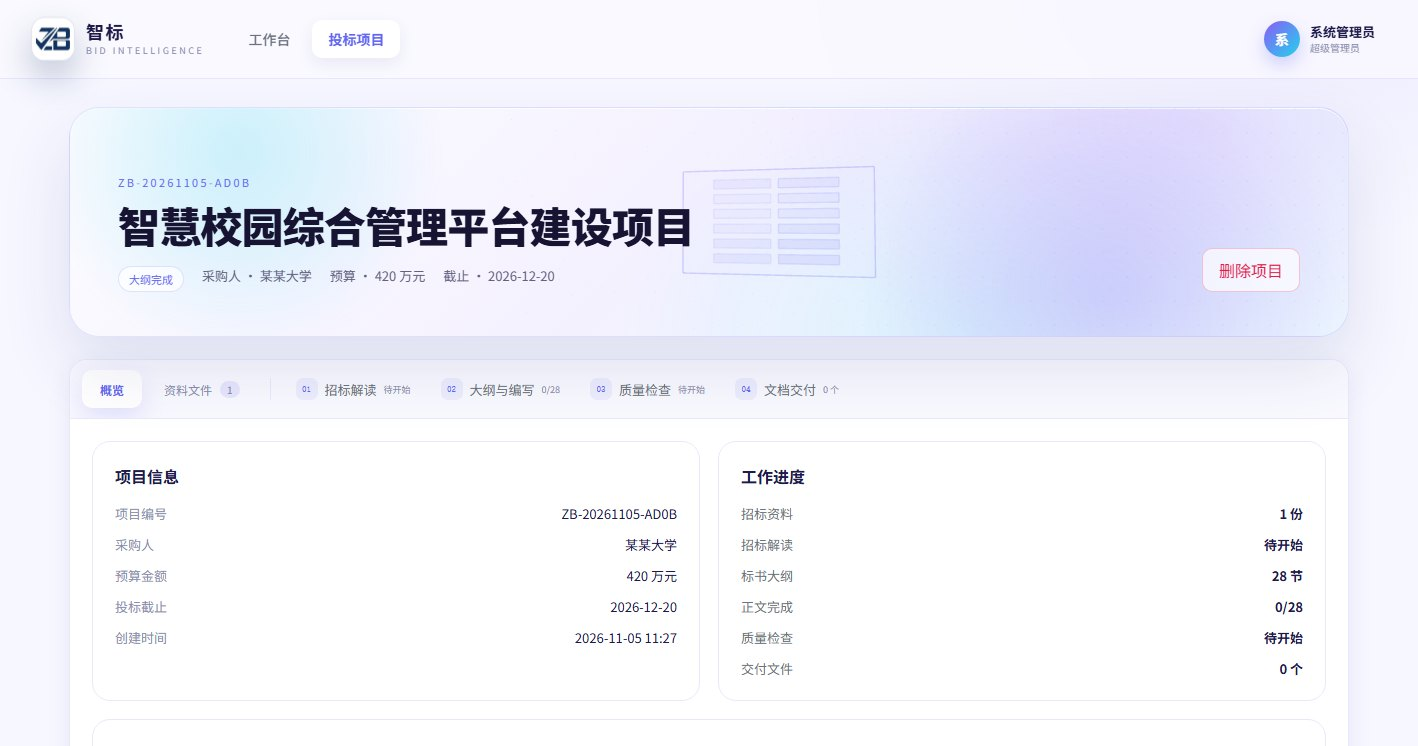
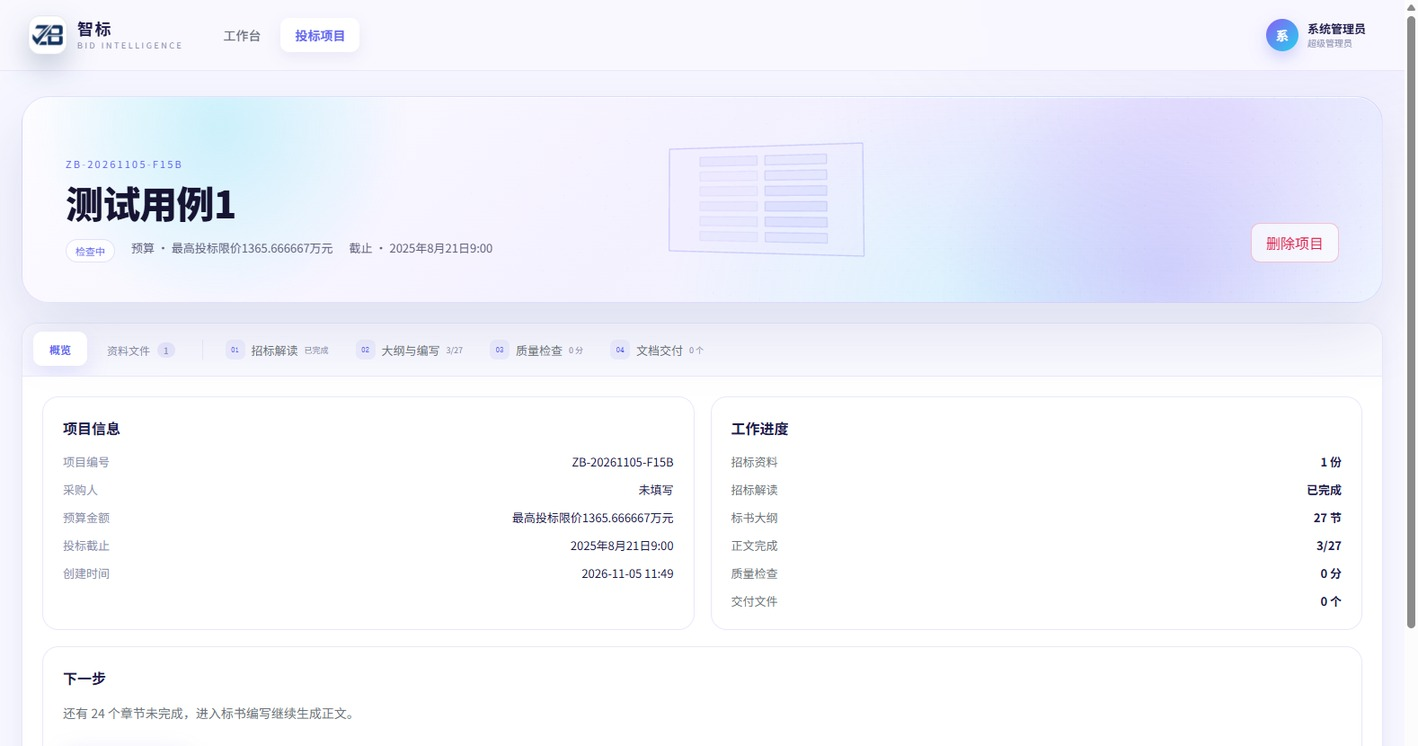
feat(web): 项目详情页加宽并让三维场景随页签变化
- 项目详情六个页签使用 1600px 上限的工作区，减少大屏两侧空白
- 解读页增加评分环、刻度与环绕节点；检查页增加菱形标记与扫描线
- 编写页增加漂浮章节卡片，交付页印章改为抬起/落下；各页签使用不同纸张视角
- 更新项目概览与编写页截图

diff --git a/packages/web/renderer-v2/src/components/AmbientScene.tsx b/packages/web/renderer-v2/src/components/AmbientScene.tsx
@@ -25,6 +25,16 @@ const STEP_ACCENT: Record<string, number> = {
   delivery: PALETTE.indigo,
 };
 
+// 每个步骤给纸张不同的视角，避免六个页签看到同一块平面。
+const STEP_TILT: Record<string, { x: number; y: number }> = {
+  overview: { x: -0.04, y: -0.16 },
+  files: { x: -0.1, y: 0.06 },
+  analysis: { x: -0.16, y: 0.13 },
+  writing: { x: -0.02, y: -0.05 },
+  review: { x: -0.12, y: 0.03 },
+  delivery: { x: 0.02, y: 0.16 },
+};
+
 type Stage = {
   scene: THREE.Scene;
   camera: THREE.PerspectiveCamera;
@@ -634,6 +644,93 @@ export function WorkspaceScene({ step, progress = 0 }: { step: string; progress?
       blocks.push({ mesh, edge, index });
     }
 
+    // 解读：评分环 + 刻度 + 环绕节点
+    const scoreRing = new THREE.Group();
+    scoreRing.position.z = 0.14;
+    const scoreArcMaterial = glowMaterial(PALETTE.cyan, 0.5);
+    const scoreArc = new THREE.Mesh(
+      new THREE.TorusGeometry(2.25, 0.018, 8, 140, Math.PI * 1.45),
+      scoreArcMaterial,
+    );
+    scoreRing.add(scoreArc);
+    const scoreTicks: THREE.Mesh[] = [];
+    const scoreTickGeo = new THREE.PlaneGeometry(0.028, 0.16);
+    for (let index = 0; index < 24; index += 1) {
+      const angle = (index / 24) * Math.PI * 2;
+      const tick = new THREE.Mesh(scoreTickGeo, fillMaterial(PALETTE.cyan, 0.22));
+      tick.position.set(Math.cos(angle) * 2.36, Math.sin(angle) * 2.36, 0);
+      tick.rotation.z = angle;
+      scoreRing.add(tick);
+      scoreTicks.push(tick);
+    }
+    const scoreNodes: THREE.Mesh[] = [];
+    for (let index = 0; index < 5; index += 1) {
+      const node = new THREE.Mesh(
+        new THREE.SphereGeometry(0.045, 10, 10),
+        glowMaterial(index % 2 ? PALETTE.violet : PALETTE.cyan, 0.7),
+      );
+      scoreRing.add(node);
+      scoreNodes.push(node);
+    }
+    scoreRing.visible = false;
+    group.add(scoreRing);
+
+    // 检查：随扫描线逐点亮起的菱形标记
+    const reviewGroup = new THREE.Group();
+    const reviewMarks: { mesh: THREE.Mesh; base: number }[] = [];
+    const reviewPositions = [
+      [-1.55, 0.86], [0.2, 0.62], [1.55, 0.9], [0.95, -0.72], [-0.7, -0.9],
+    ];
+    const reviewMarkGeo = new THREE.PlaneGeometry(0.16, 0.16);
+    reviewPositions.forEach(([x, y], index) => {
+      const mark = new THREE.Mesh(
+        reviewMarkGeo,
+        fillMaterial(index === 3 ? 0xe11d48 : 0xf59e0b, 0.42),
+      );
+      mark.position.set(x, y, 0.1);
+      mark.rotation.z = Math.PI / 4;
+      reviewGroup.add(mark);
+      reviewMarks.push({ mesh: mark, base: 0.2 + index * 0.04 });
+    });
+    reviewGroup.visible = false;
+    group.add(reviewGroup);
+
+    // 编写：纸张外侧漂浮的章节卡片
+    const writingGroup = new THREE.Group();
+    const writingCards: { group: THREE.Group; baseY: number; baseRot: number; index: number }[] = [];
+    const cardMaterials: { material: { opacity: number }; base: number }[] = [];
+    const cardGeo = new THREE.PlaneGeometry(0.72, 0.46);
+    const cardEdges = new THREE.EdgesGeometry(cardGeo);
+    const cardSpecs = [
+      { x: -3.35, y: 0.9, rot: -0.32 },
+      { x: 3.4, y: 0.6, rot: 0.3 },
+      { x: 3.05, y: -1.1, rot: 0.2 },
+    ];
+    cardSpecs.forEach((spec, index) => {
+      const card = new THREE.Group();
+      card.position.set(spec.x, spec.y, 0.25);
+      card.rotation.y = spec.rot;
+      const panel = new THREE.Mesh(cardGeo, fillMaterial(PALETTE.paper, 0.4));
+      card.add(panel);
+      cardMaterials.push({ material: panel.material as { opacity: number }, base: 0.4 });
+      const edges = new THREE.LineSegments(cardEdges, lineMaterial(PALETTE.violet, 0.45));
+      card.add(edges);
+      cardMaterials.push({ material: edges.material as { opacity: number }, base: 0.45 });
+      for (let line = 0; line < 3; line += 1) {
+        const rule = new THREE.Mesh(
+          new THREE.PlaneGeometry(0.5 - line * 0.1, 0.025),
+          fillMaterial(PALETTE.violet, 0.26),
+        );
+        rule.position.set(0, 0.1 - line * 0.1, 0.004);
+        card.add(rule);
+        cardMaterials.push({ material: rule.material as { opacity: number }, base: 0.26 });
+      }
+      writingGroup.add(card);
+      writingCards.push({ group: card, baseY: spec.y, baseRot: spec.rot, index });
+    });
+    writingGroup.visible = false;
+    group.add(writingGroup);
+
     // 步骤专属动效（一直在场，按当前步骤淡入淡出，不再整场景重建）
     const radar = new THREE.Group();
     radar.position.set(0, 0, 0.12);
@@ -748,6 +845,8 @@ export function WorkspaceScene({ step, progress = 0 }: { step: string; progress?
     let scanMix = 0;
     let sealMix = 0;
     let progressMix = 0;
+    let tiltX = STEP_TILT[stepRef.current]?.x ?? -0.04;
+    let tiltY = STEP_TILT[stepRef.current]?.y ?? -0.16;
 
     const paint = (time: number, instant: boolean) => {
       const currentStep = stepRef.current;
@@ -775,8 +874,11 @@ export function WorkspaceScene({ step, progress = 0 }: { step: string; progress?
       camera.lookAt(0, 0, 0);
 
       group.position.set(baseX + pointer.x * 0.25, -drift * 0.35, 0);
-      group.rotation.y = -0.16 + Math.sin(time * 0.25) * 0.06 + pointer.x * 0.12;
-      group.rotation.x = -0.04 - pointer.y * 0.06 - drift * 0.05;
+      const tilt = STEP_TILT[currentStep] || STEP_TILT.overview;
+      tiltX = instant ? tilt.x : tiltX + (tilt.x - tiltX) * 0.05;
+      tiltY = instant ? tilt.y : tiltY + (tilt.y - tiltY) * 0.05;
+      group.rotation.y = tiltY + Math.sin(time * 0.25) * 0.04 + pointer.x * 0.1;
+      group.rotation.x = tiltX - pointer.y * 0.05 - drift * 0.05;
       group.scale.setScalar(baseScale * (0.94 + reveal * 0.06) * (1 + stepPulse * 0.035));
 
       const sheetMaterial = sheetEdge.material as THREE.LineBasicMaterial;
@@ -823,12 +925,48 @@ export function WorkspaceScene({ step, progress = 0 }: { step: string; progress?
       scanMaterial.opacity = 0.36 * scanMix;
       if (scanMix > 0.02) scanBar.position.y = 1.6 - ((time * 0.5) % 1) * 3.2;
 
+      scoreRing.visible = radarMix > 0.02;
+      scoreArcMaterial.opacity = 0.5 * radarMix;
+      if (scoreRing.visible) {
+        scoreRing.rotation.z = time * 0.22;
+        scoreTicks.forEach((tick) => {
+          (tick.material as THREE.MeshBasicMaterial).opacity = 0.22 * radarMix;
+        });
+        scoreNodes.forEach((node, index) => {
+          const angle = time * 0.7 + (index / scoreNodes.length) * Math.PI * 2;
+          node.position.set(Math.cos(angle) * 2.3, Math.sin(angle) * 1.7, Math.sin(angle * 2) * 0.18);
+          (node.material as THREE.MeshBasicMaterial).opacity = 0.7 * radarMix;
+        });
+      }
+
+      reviewGroup.visible = scanMix > 0.02;
+      if (reviewGroup.visible) {
+        reviewMarks.forEach(({ mesh, base }, index) => {
+          const pulse = (Math.sin(time * 2.2 + index * 0.8) + 1) / 2;
+          (mesh.material as THREE.MeshBasicMaterial).opacity = (base + pulse * 0.35) * scanMix;
+          mesh.scale.setScalar(0.85 + pulse * 0.35);
+        });
+      }
+
+      writingGroup.visible = progressMix > 0.02;
+      if (writingGroup.visible) {
+        writingCards.forEach(({ group: card, baseY, baseRot, index }) => {
+          card.position.y = baseY + Math.sin(time * 0.9 + index * 1.1) * 0.07;
+          card.rotation.y = baseRot + Math.sin(time * 0.5 + index) * 0.05;
+        });
+        cardMaterials.forEach(({ material, base }) => {
+          material.opacity = base * progressMix;
+        });
+      }
+
+      const stamp = (Math.sin(time * 1.35) + 1) / 2;
       seal.visible = sealMix > 0.02;
-      sealRingMaterial.opacity = 0.7 * sealMix;
-      sealGlowMaterial.opacity = (0.14 + (Math.sin(time * 1.6) + 1) * 0.1) * sealMix;
-      checkMaterial.opacity = 0.9 * sealMix;
+      sealRingMaterial.opacity = (0.3 + stamp * 0.5) * sealMix;
+      sealGlowMaterial.opacity = (0.08 + stamp * 0.22) * sealMix;
+      checkMaterial.opacity = (0.4 + stamp * 0.55) * sealMix;
       if (sealMix > 0.02) {
-        seal.scale.setScalar(1 + Math.sin(time * 1.6) * 0.06);
+        seal.position.y = -1.2 + (1 - stamp) * 0.42;
+        seal.scale.setScalar(0.92 + stamp * 0.14);
         sealRing.rotation.z = time * 0.25;
       }
 

diff --git a/packages/web/renderer-v2/src/styles.css b/packages/web/renderer-v2/src/styles.css
@@ -496,6 +496,11 @@ button {
   padding: 28px 0 80px;
 }
 
+/* 项目详情里的六个页签内容更宽，避免大屏两侧留出大片空白 */
+.workspace.workspace-wide {
+  width: min(1600px, calc(100% - 48px));
+}
+
 /* ---------- 工作台英雄区 ---------- */
 .hero,
 .tender-hero {
@@ -1512,6 +1517,10 @@ button {
   }
 
   .workspace {
+    width: calc(100% - 32px);
+  }
+
+  .workspace.workspace-wide {
     width: calc(100% - 32px);
   }
 
@@ -4706,6 +4715,10 @@ body {
   .workspace {
     width: calc(100% - 24px);
     padding: 16px 0 calc(48px + env(safe-area-inset-bottom));
+  }
+
+  .workspace.workspace-wide {
+    width: calc(100% - 24px);
   }
 
   .hero {

diff --git a/packages/web/renderer-v2/src/pages/TenderDetail.tsx b/packages/web/renderer-v2/src/pages/TenderDetail.tsx
@@ -594,7 +594,7 @@ export function TenderDetailPage({ account, onLogout }: Props) {
         </div>
       </header>
 
-      <main className="workspace">
+      <main className="workspace workspace-wide">
         <section className="tender-hero">
           <WorkspaceScene
             step={tab}
